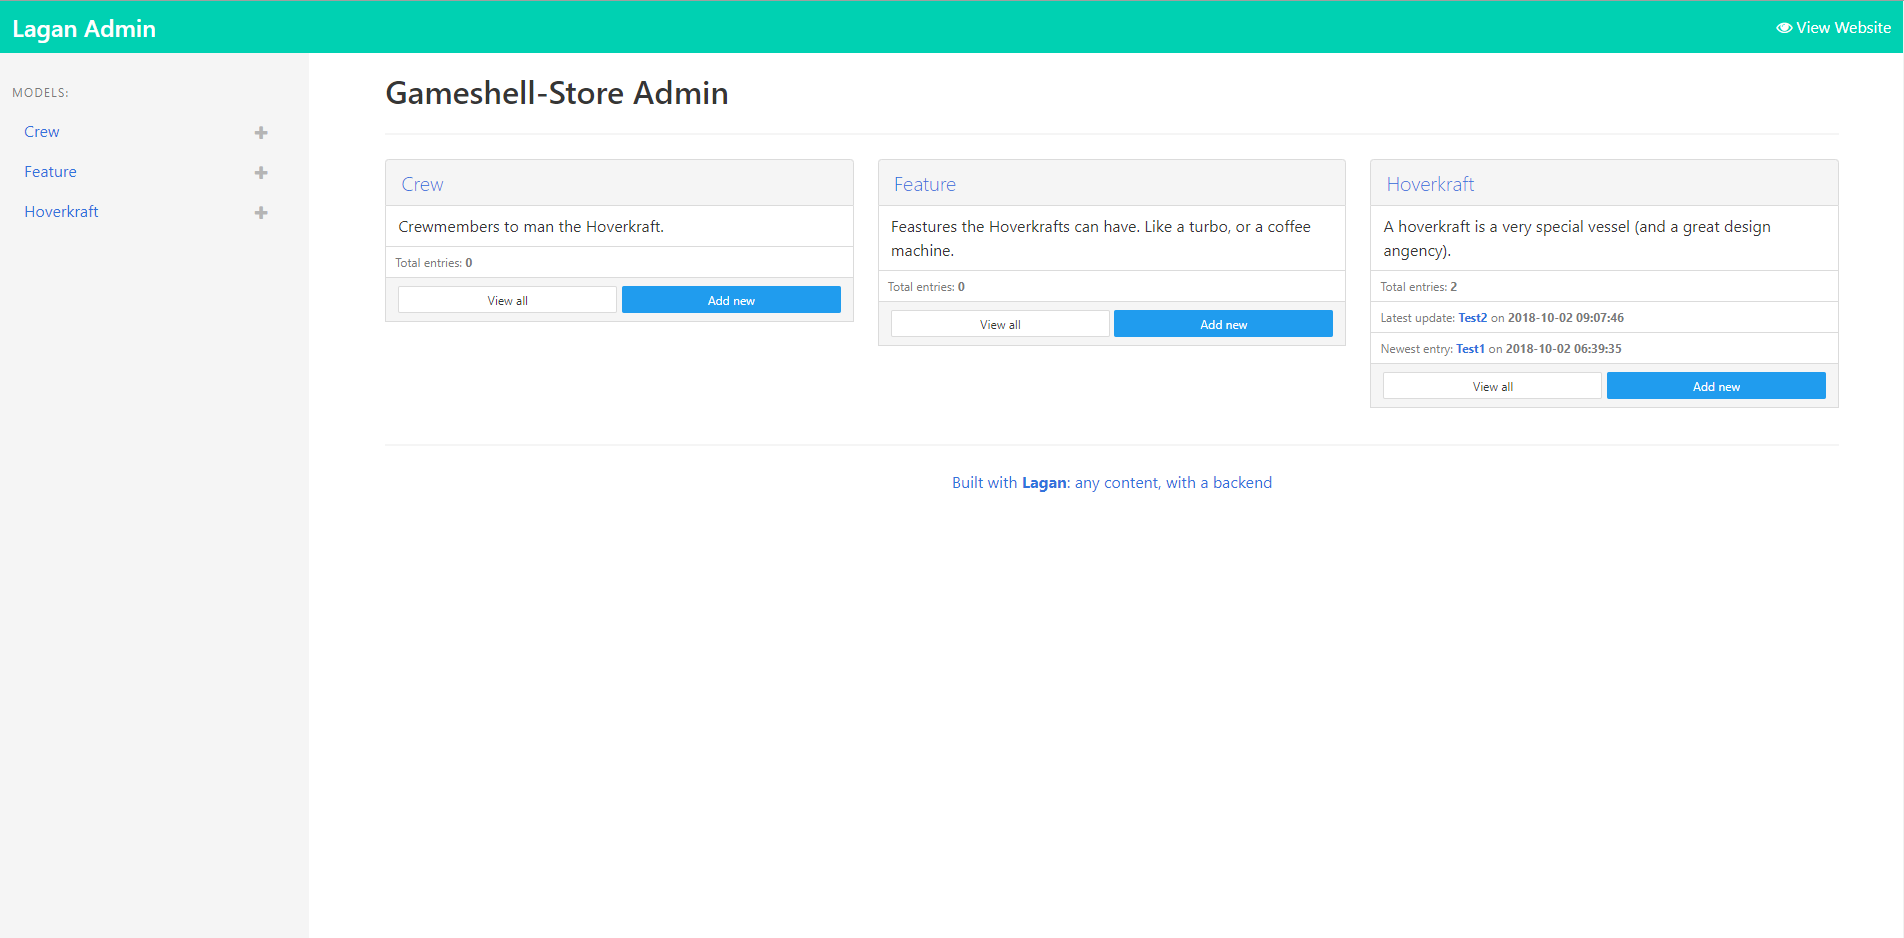
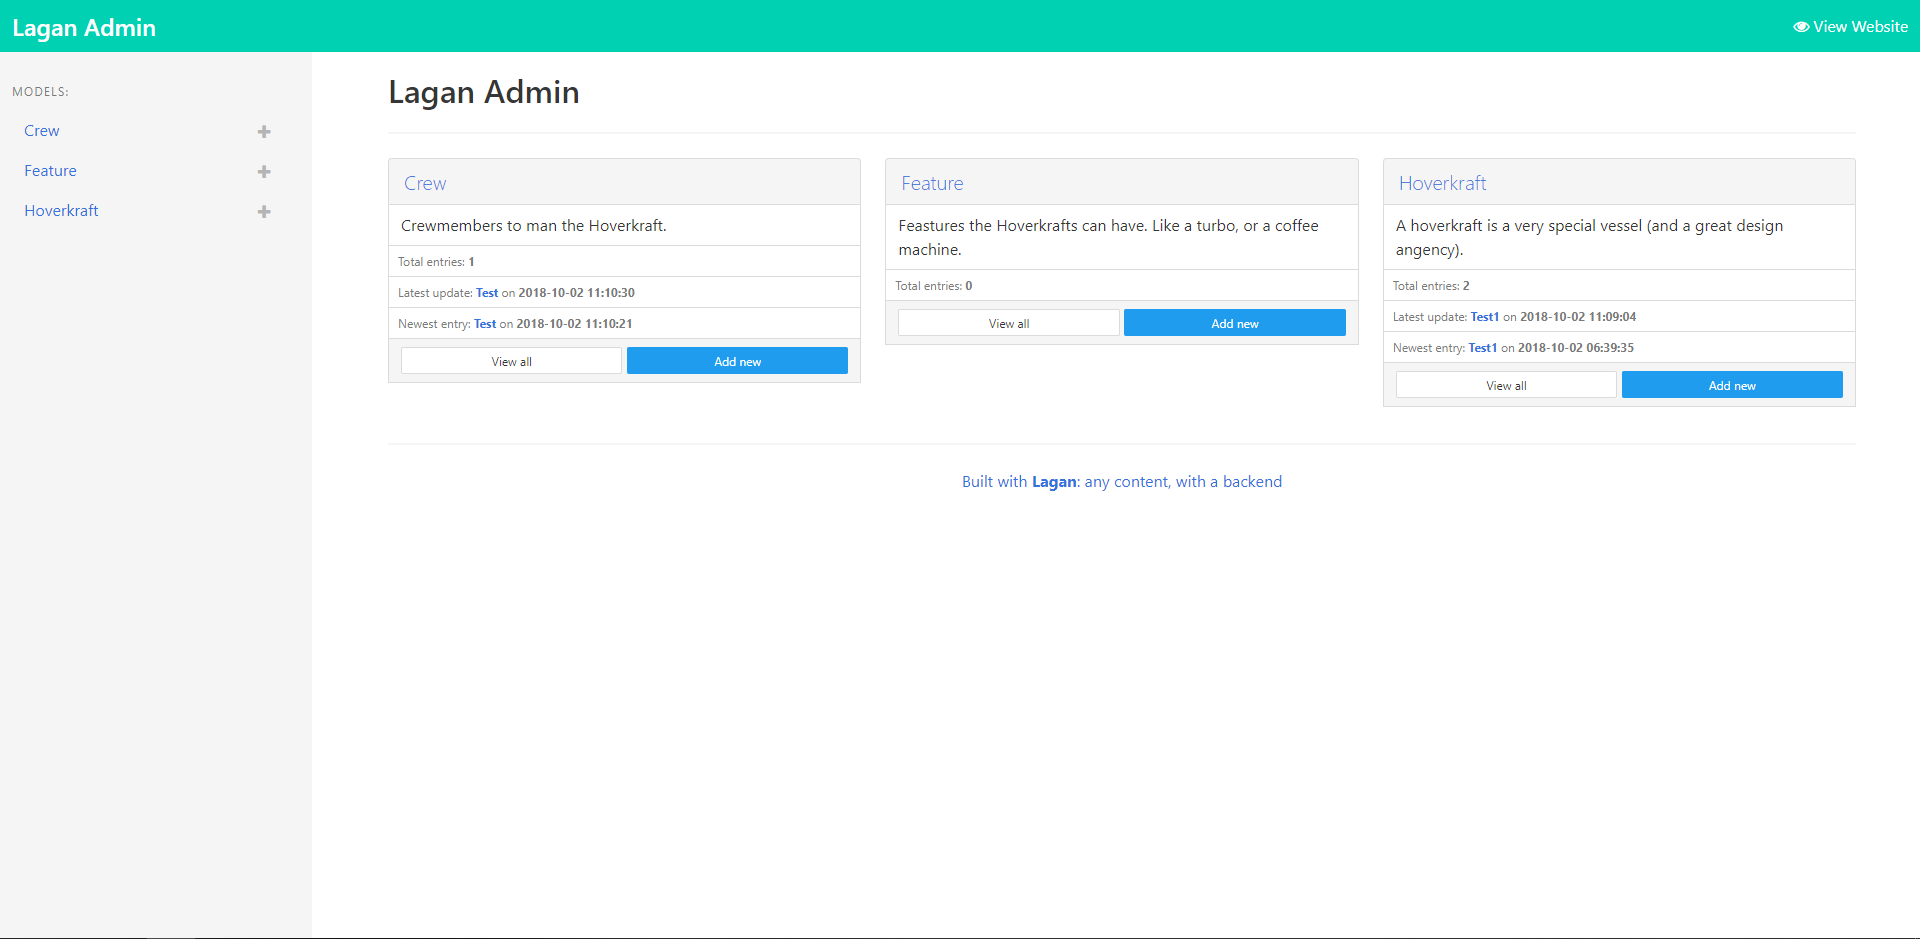
Forgot to remove custom title of my personal project (now Lagan)

diff --git a/templates/admin/base.html b/templates/admin/base.html
@@ -5,7 +5,7 @@
 		<meta http-equiv="X-UA-Compatible" content="IE=edge" />
 		<meta name="viewport" content="width=device-width, initial-scale=1" />
 		<meta name="robots" content="noindex, nofollow" />
-		<title>{{ title }} - Gameshell-Store Admin</title>
+		<title>{{ title }} - Lagan Admin</title>
 
 		{% block head %}
 		<!--

diff --git a/templates/admin/index.html b/templates/admin/index.html
@@ -4,7 +4,7 @@
 
 {% block content %}
 
-	<h1 class="title has-text-centered-mobile">Gameshell-Store Admin</h1>
+	<h1 class="title has-text-centered-mobile">Lagan Admin</h1>
 
 	<hr>
 

diff --git a/README.md b/README.md
@@ -12,6 +12,8 @@ Made with [Bulma](https://bulma.io).
 Just drop the ``templates/`` and the ``public/`` folder over your project root.  
 This will replace all of the default templates by Lagan.
 
+> Don't forget to clear the cache!
+
 ## Screenshots
 
 ![Screenshot 1](screenshots/Screenshot1.png)
